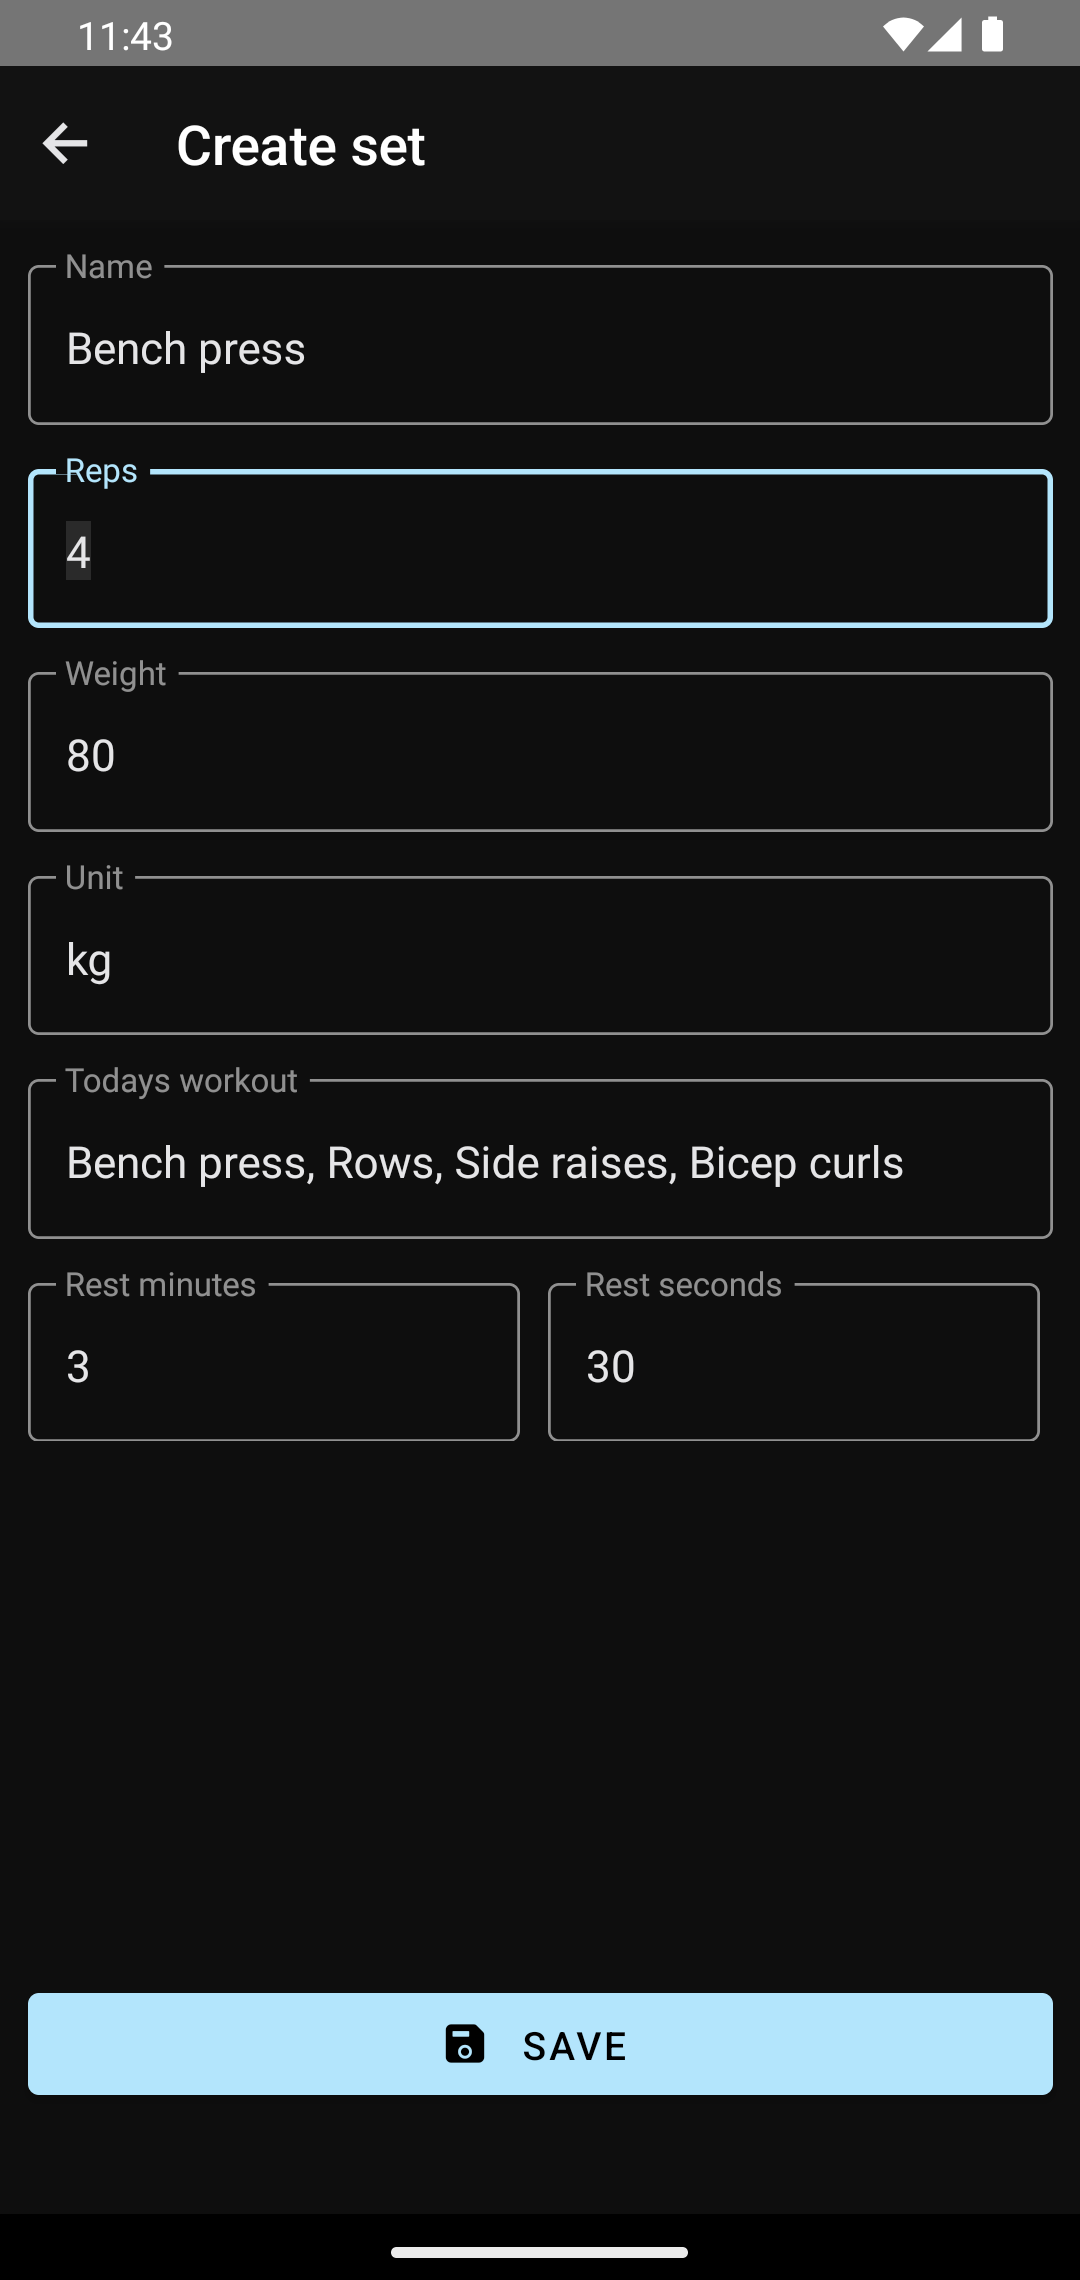
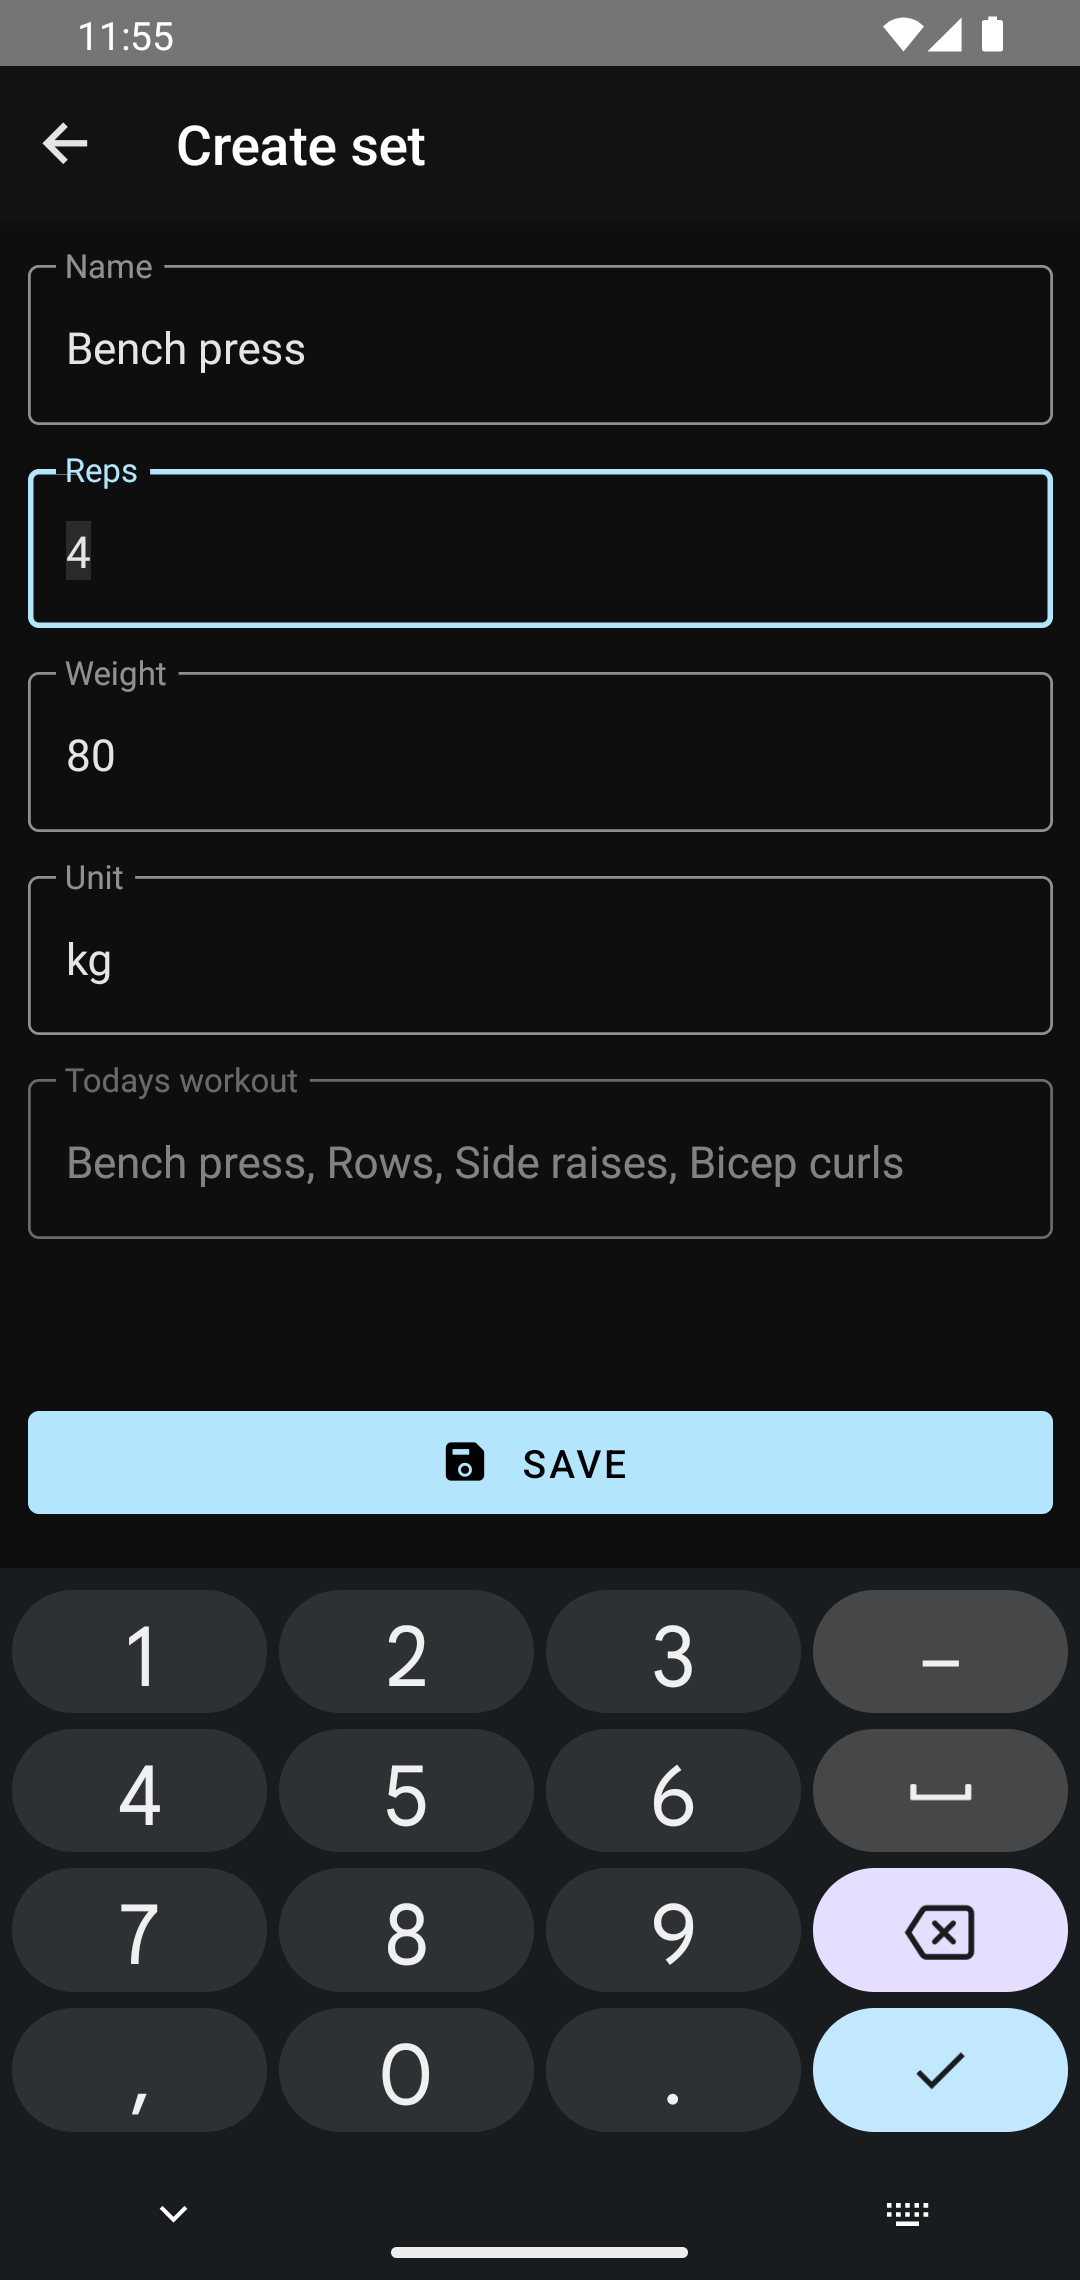
Hide rest minutes and seconds from edit set screen
Feels like there are too many fields on this screen
so we can just leave the defaults for people who don't
care about this feature.

diff --git a/SetForm.tsx b/SetForm.tsx
@@ -1,7 +1,6 @@
 import React, {useEffect, useRef, useState} from 'react';
-import {ScrollView, View} from 'react-native';
+import {ScrollView} from 'react-native';
 import {Button} from 'react-native-paper';
-import {MARGIN} from './constants';
 import MassiveInput from './MassiveInput';
 import Set from './set';
 import {getSets} from './set.service';
@@ -20,8 +19,6 @@ export default function SetForm({
   const [weight, setWeight] = useState(set.weight.toString());
   const [unit, setUnit] = useState(set.unit);
   const [uri, setUri] = useState(set.image);
-  const [minutes, setMinutes] = useState(set.minutes?.toString());
-  const [seconds, setSeconds] = useState(set.seconds?.toString());
   const [selection, setSelection] = useState({
     start: 0,
     end: set.reps.toString().length,
@@ -29,8 +26,6 @@ export default function SetForm({
   const weightRef = useRef<any>(null);
   const repsRef = useRef<any>(null);
   const unitRef = useRef<any>(null);
-  const minutesRef = useRef<any>(null);
-  const secondsRef = useRef<any>(null);
 
   useEffect(() => {
     console.log('SetForm.useEffect:', {uri, name: set.name});
@@ -49,8 +44,8 @@ export default function SetForm({
       id: set.id,
       unit,
       image: uri,
-      minutes: Number(minutes ?? 3),
-      seconds: Number(seconds ?? 30),
+      minutes: Number(set.minutes ?? 3),
+      seconds: Number(set.seconds ?? 30),
       sets: set.sets ?? 3,
     });
   };
@@ -91,34 +86,14 @@ export default function SetForm({
           label="Unit"
           value={unit}
           onChangeText={setUnit}
-          onSubmitEditing={() => minutesRef.current?.focus()}
           innerRef={unitRef}
         />
         {workouts && (
           <MassiveInput
             label="Todays workout"
             value={workouts?.join(', ')}
-            editable={false}
+            disabled
           />
-        )}
-        {!set.id && (
-          <View style={{flexDirection: 'row', flexWrap: 'wrap'}}>
-            <MassiveInput
-              style={{width: '48%'}}
-              label="Rest minutes"
-              value={minutes}
-              onChangeText={setMinutes}
-              innerRef={minutesRef}
-              onSubmitEditing={() => secondsRef.current?.focus()}
-            />
-            <MassiveInput
-              style={{width: '48%', marginLeft: MARGIN}}
-              label="Rest seconds"
-              value={seconds}
-              onChangeText={setSeconds}
-              innerRef={secondsRef}
-            />
-          </View>
         )}
       </ScrollView>
       <Button
